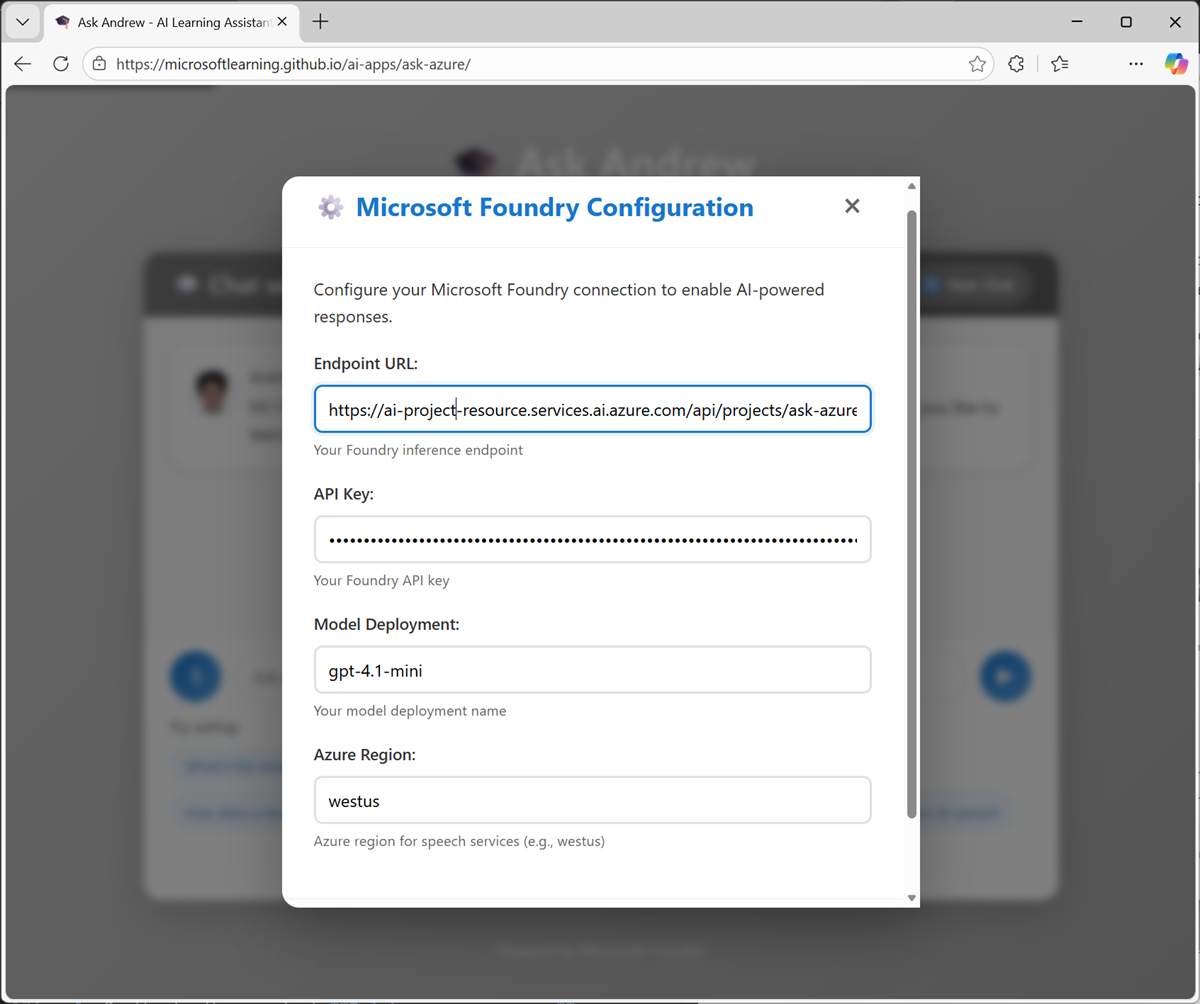
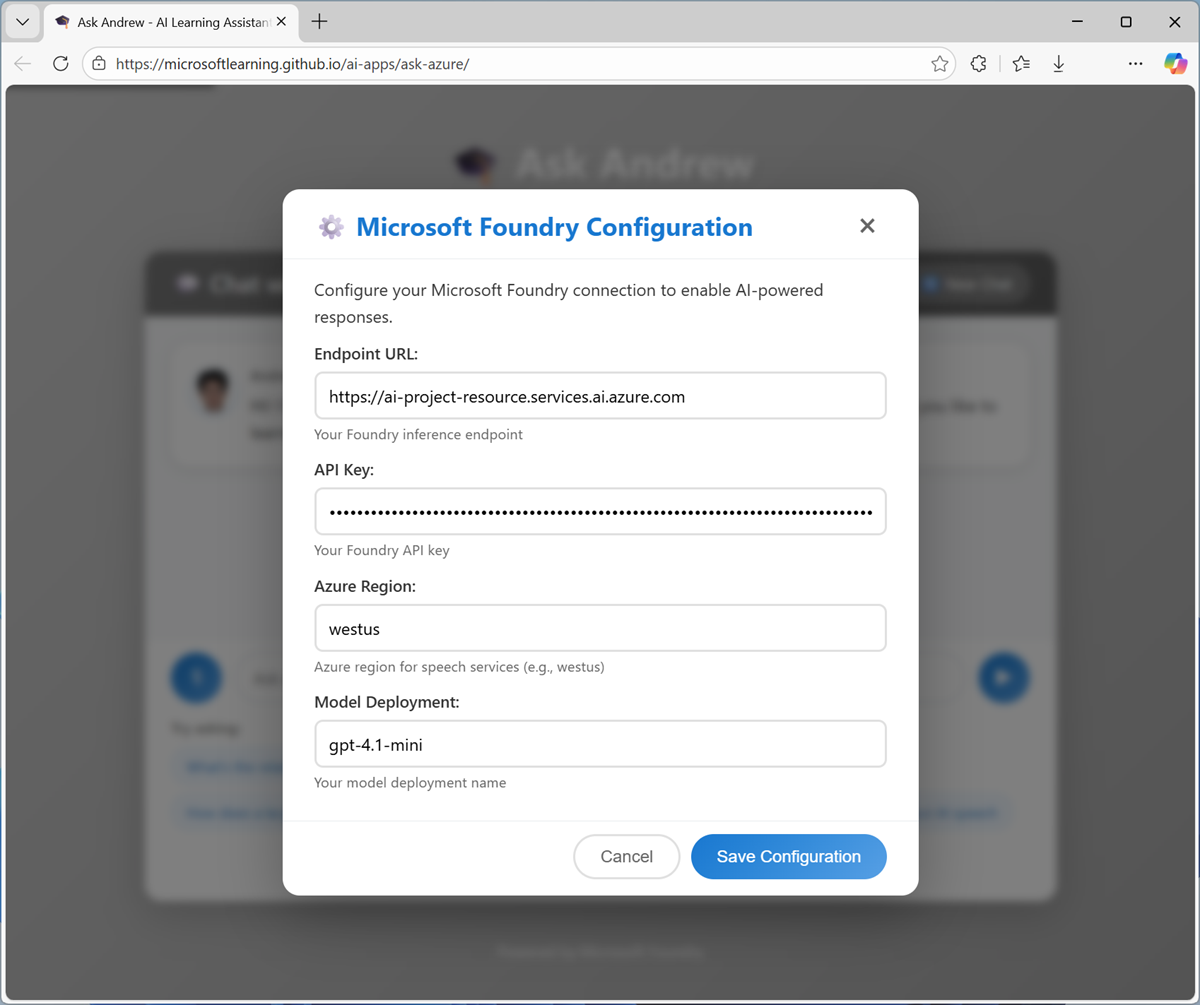
Updated config UI

diff --git a/Instructions/Exercises/00-explore-foundry.md b/Instructions/Exercises/00-explore-foundry.md
@@ -157,13 +157,14 @@ Now that you have a Microsoft Foundry resource in Azure, you can use its models 
     - **Project endpoint**: The URL where your project resource can be accessed.
     - **Project API key**: The authentication key used to access your resource.
     - **Project region**: The region where your project is deployed.
+
 1. Open a second browser tab, and navigate to the [Ask Andrew (Azure)](https://aka.ms/ask-andrew-azure){:target="_blank"} app at `https://aka.ms/ask-andrew-azure`.
 
     The Ask Andrew app should look like this:
 
     ![Screenshot of the Ask Andrew app.](./media/ask-andrew.png)
 
-1. In the chat pane header, select **Configure**, and then copy your model deployment name and the project values from the Foundry portal home page to the Foundry configuration settings page.
+1. In the chat pane header, select **Configure**, and then enter the project values from the Foundry portal home page and your model deployment name into the Foundry configuration settings page.
 
     ![Screenshot of the Ask Andrew app configuration page.](./media/configure-andrew.png)
 
